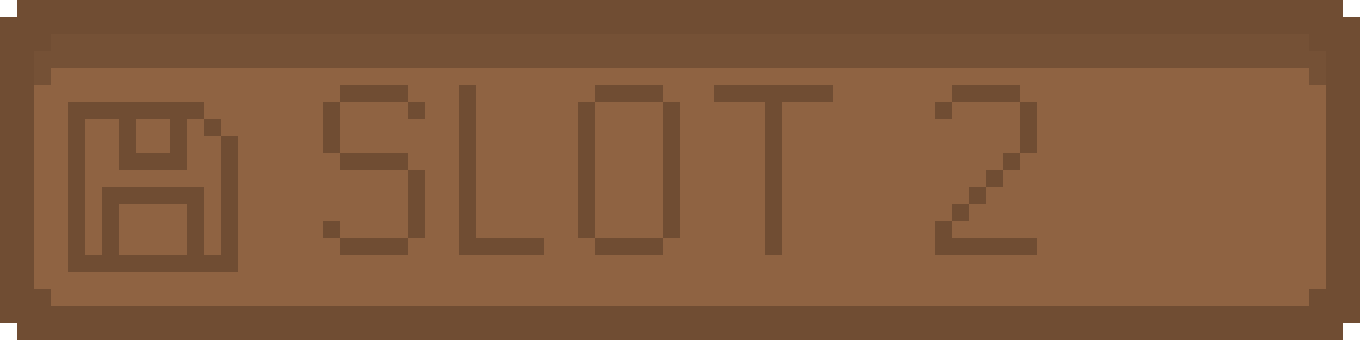
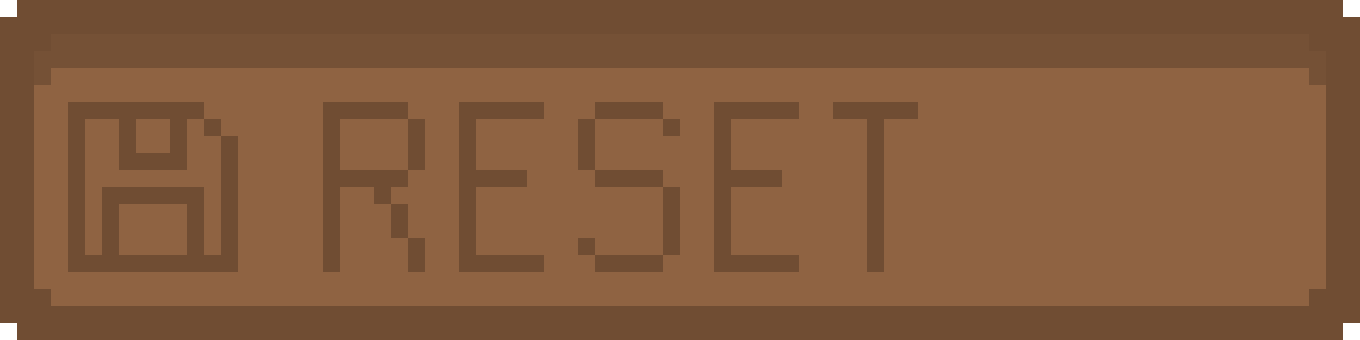
final update week 6/7 6767 (sorry)
ik kon niet de bg music pushen want het is te groot bestand omdat hij heel lang duurt

Changed region(s): [[0.2162, 0.2353, 0.7721, 0.8235]]

diff --git a/Week 6/sketch.js b/Week 6/sketch.js
@@ -121,6 +121,8 @@ let sfx = true;
 let birdY = 150;
 let gameTimer3 = 0;
 
+let saved = 0;
+
 
 //dit zijn al mn images en gifs
 let assets = {};
@@ -184,14 +186,39 @@ let assetFiles = {
   casette3: "assets/casette3.png",
   basket: "assets/basket.png",
   game3bg: "assets/game3bg.gif",
-  bird: "assets/bird.gif"
+  bird: "assets/bird.gif",
+  funny: "assets/construction.jpe"
 };
 
 
 
 //dit is voor mn ding dat ervoor zorgt dat alles blijft draaien offline
-function saveScore() {
-  storeItem("Score", score1); // FIX: score -> score1
+function saveScore1() {
+  storeItem('name', msg);
+
+  storeItem('health', health);
+  storeItem('energie', energie);
+  storeItem('happy', happy);
+  storeItem('hunger', hunger);
+  storeItem('hygiene', hygiene);
+}
+
+function getScore1() {
+  msg = getItem('name');
+  
+  health = getItem('health');
+  energie = getItem('energie');
+  happy = getItem('happy');
+  hunger = getItem('hunger');
+  hygiene = getItem('hygiene');
+}
+
+function resetGame() {
+  health = 297;
+  energie = 297;
+  happy = 297;
+  hunger = 297;
+  hygiene = 297;
 }
 
 
@@ -205,12 +232,16 @@ function preload() {
 
   menuMove = loadSound("assets/menuMove.mp3");
   gameMusic = loadSound("assets/gameMusic.mp3");
+  bgMusic = loadSound("assets/bgMusic.mp3");
 }
 
 
 
 function setup() {
   createCanvas(1000, 650);
+  getScore1();
+  bgMusic.setVolume(0.4);
+  bgMusic.play();
   
   //dit is gwn een test dat ik t niet vergeet
   let score = getItem("Score");
@@ -261,9 +292,16 @@ function folder1() {
     image(assets.saveButUp1, 615, 100, 360, 80);
   } else if (saveKnop1 == 1) {
     image(assets.saveButDown1, 615, 100, 360, 80);
+
+    if (saved == 0) {
+      saveScore1();
+      print("Game saved!");
+      saved = 1;
+    }
     
-    if (!mouseIsPressed == true) {
+    if (!mouseIsPressed) {
       saveKnop1 = 0;
+      saved = 0;
     }
   }
 
@@ -271,6 +309,8 @@ function folder1() {
     image(assets.saveButUp2, 615, 210, 360, 80);
   } else if (saveKnop2 == 1) {
     image(assets.saveButDown2, 615, 210, 360, 80);
+
+    resetGame();
     
     if (!mouseIsPressed == true) {
       saveKnop2 = 0;
@@ -697,7 +737,7 @@ function room2() {
 function follow() {
   drawingContext.shadowBlur = 10;
   drawingContext.shadowOffsetY = -5;
-  drawingContext.shadowOffsetX = -10;
+  drawingContext.shadowOffsetX = -5;
   drawingContext.shadowColor = 'rgb(118, 92, 78)'
 
 
@@ -764,7 +804,7 @@ function games() {
   xsleep2 = -1000;
 
   if (happy < 298) {
-    happy ++;
+    happy += 0.7;
   }
 
   gamePress = true;
@@ -798,6 +838,7 @@ function miniMenu() {
 
   image(assets.minimenu, 49, 57, 502, 320);
   image(assets.menuMenu, 200, 120, 200, 250);
+  image(assets.funny, 250, 235, 100, 25);
 
 
   //menu shit met key binds
@@ -835,18 +876,28 @@ function settings() {
   if (option == 0) {
     image(assets.settingMenu, 200, 120, 200, 250);
     music = true;
+    if (!gameMusic.isPlaying) {
+      gameMusic.play();
+    }
+
     sfx = true;
   } else if (option == 1) {
     image(assets.setting2, 200, 120, 200, 250);
     music = false;
+    gameMusic.pause();
     sfx = true;
   } else if (option == 2) {
     image(assets.setting3, 200, 120, 200, 250);
     music = true;
+    if (!gameMusic.isPlaying) {
+      gameMusic.play();
+    }
+
     sfx = false;
   } else if (option == 3) {
     image(assets.setting4, 200, 120, 200, 250);
     music = false;
+    gameMusic.pause();
     sfx = false;
   }
 
@@ -1128,18 +1179,33 @@ function game3Play() {
     gameTimer3 ++;
   }
 
+  if (flappy1x == 100 || flappy2x == 100 || flappy3x == 100) {
+    score3 ++;
+  }
+
   if (flappy1x >= 80 && flappy1x <= 160) {
-    console.log("yo")
     if (birdY <= 130 || birdY >= 210) {
       play3 = 0;
     }
   }
 
+  if (flappy2x >= 80 && flappy2x <= 160) {
+    if (birdY <= 80 || birdY >= 260) {
+      play3 = 0;
+    }
+  }
 
-  if (gameTimer3 <= 1) {
-    birdY += 0.4;
-  } else {
+  if (flappy3x >= 80 && flappy3x <= 160) {
+    if (birdY <= 180 || birdY >= 360) {
+      play3 = 0;
+    }
+  }
+
+
+  if (gameTimer3 <= 2) {
     birdY += 0.9;
+  } else {
+    birdY += 1.5;
   }
 
 
@@ -1192,6 +1258,10 @@ function game3Play() {
   } else if (flappy3x <= 80) {
     flappy3x = 920;
   }
+
+  fill(255);
+  textSize(20);
+  text("Score: " + score3, textX3, 80);
 }
 
 
@@ -1221,7 +1291,7 @@ function game3Over() {
 
   textSize(15);
   text("Press 'space' to go up", 235, 200);
-  text("Your previous score: " + score3, 200, 240);
+  text("Your previous score: " + score3, 232, 240);
 
   textSize(25);
   text("Press enter to restart", 185, 285);
@@ -1282,7 +1352,7 @@ function keyPressed() {
     if (key === 'Enter') {
       ent = true;
       minigames = 1;
-      return; // FIX: stop here, otherwise the same Enter also starts the game
+      return; 
     }
 
     if ((key === 'w' || key === 'W' || keyCode === UP_ARROW) && menuOption >= 0 && ent == false) {
@@ -1347,7 +1417,7 @@ function keyPressed() {
 
   if (play3 == 2) {
     if (keyCode === 32) {
-      birdY -= 25;
+      birdY -= 35;
       gameTimer3 = 0;
     }
   }
@@ -1384,6 +1454,7 @@ function mousePressed() {
   //save buttons
   if (mouseX >= 615 && mouseX <= 975 && mouseY >= 130 && mouseY <= 210) {
     saveKnop1 = 1;
+    slot1 = true;
   }
   if (mouseX >= 615 && mouseX <= 975 && mouseY >= 240 && mouseY <= 320) {
     saveKnop2 = 1;
@@ -1401,12 +1472,9 @@ function mousePressed() {
     free = false;
     gamePress = true;
 
-   
     if (music == true) {
       gameMusic.setVolume(0.5);
       gameMusic.loop();
-    } else if (music == false) {
-      gameMusic.stop();
     }
   }
 
@@ -1519,14 +1587,18 @@ function draw() {
     deadFR = true;
   }
 
-
   //alle volgordens van wanneer welke functies moeten draaien enzo
   if (free == true && leftPress == false) {
     main();
     follow();
+
+    if (!bgMusic.isPlaying()) {
+      bgMusic.play();
+    }
   } else if (free == false && deadFR == false && gamePress == false) {
     sleep();
   } else if (free == false && deadFR == false && gamePress == true) {
+    bgMusic.pause();
     games();
 
     if (minigames == 0) {
@@ -1536,8 +1608,6 @@ function draw() {
       settings();
     } else if (ent == true && menuOption == 2) {
       game1();
-    } else if (ent == true && menuOption == 1) {
-      game2();
     } else if (ent == true && menuOption == 3) {
       game3();
     }
